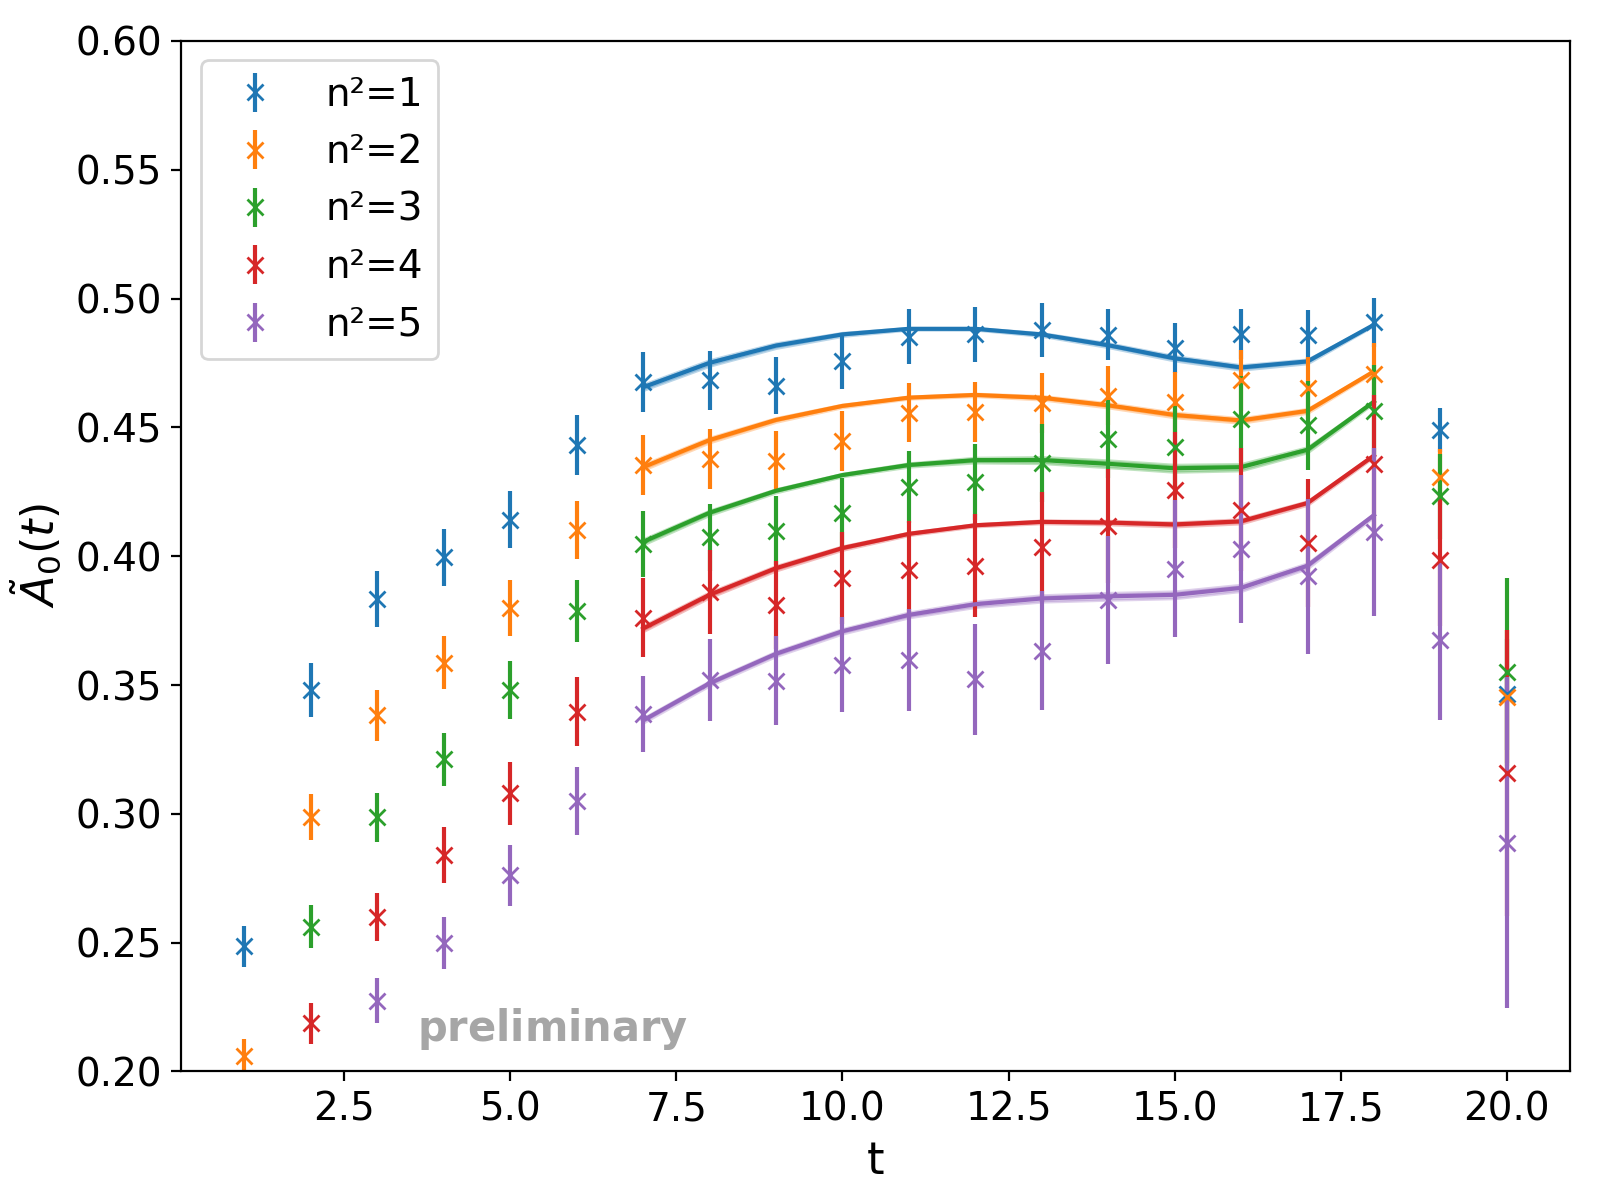
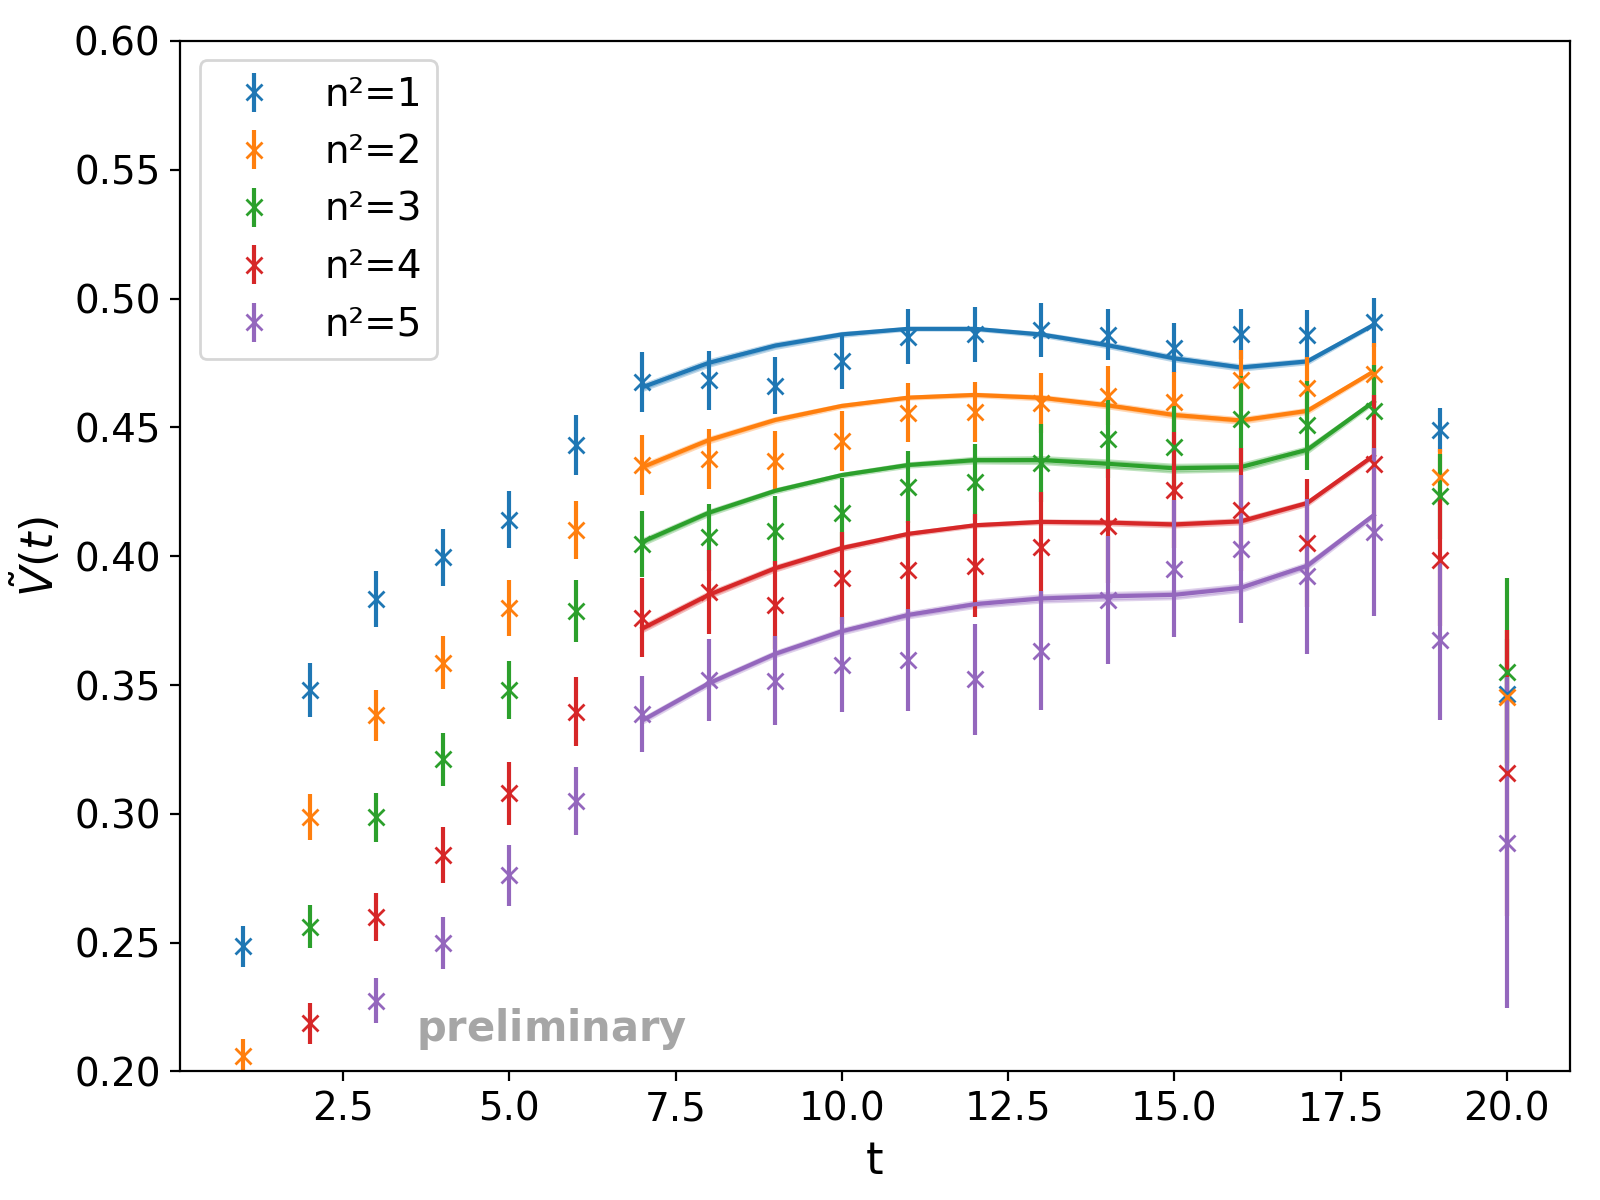
Updated plots for mumbai

diff --git a/Code/Plot-Excited-Combined.py b/Code/Plot-Excited-Combined.py
@@ -12,7 +12,7 @@ from FitModel import model_eq30  # importiere deine Modellfunktion
 # --- Configuration ---
 ensemble = "C1"
 cmass = '0.400'
-FF = "A0"
+FF = "V"
 
 fit_file = f"../Results/{ensemble}/{cmass}/Fit/Excited-combined-{FF}.csv"
 out_plot = f"../Results/{ensemble}/{cmass}/Fit/Excited-combined-{FF}-Plot.pdf"
@@ -180,9 +180,9 @@ def plot_all_t_eq30(
                          mean[fit_mask]+err[fit_mask], color=color, alpha=0.3)
 
     plt.xlabel("t", fontsize=16)
-    plt.ylabel(r"$\tilde{A}_0(t)$", fontsize=16)
-    plt.ylim(0.09, 0.25)
-    #plt.ylim(0.2,0.6)
+    plt.ylabel(r"$\tilde{V}(t)$", fontsize=16)
+    #plt.ylim(0.09, 0.25)
+    plt.ylim(0.2,0.6)
     plt.legend(frameon=False)
     plt.tight_layout()
     plt.xticks(fontsize=14)
